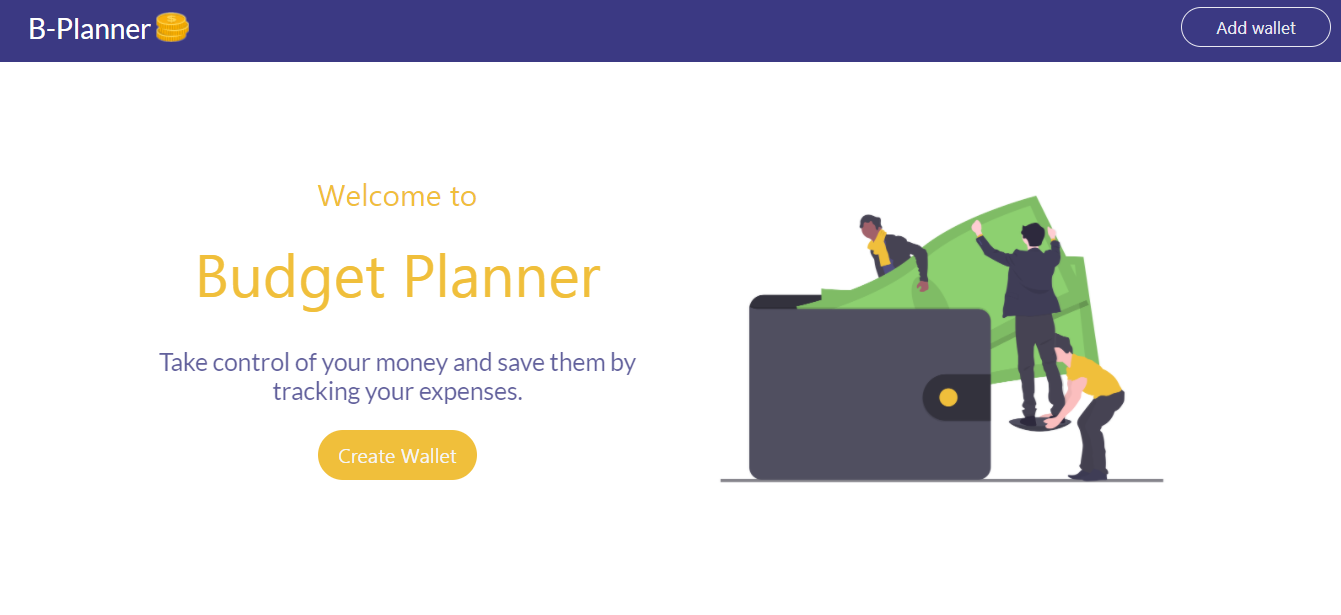
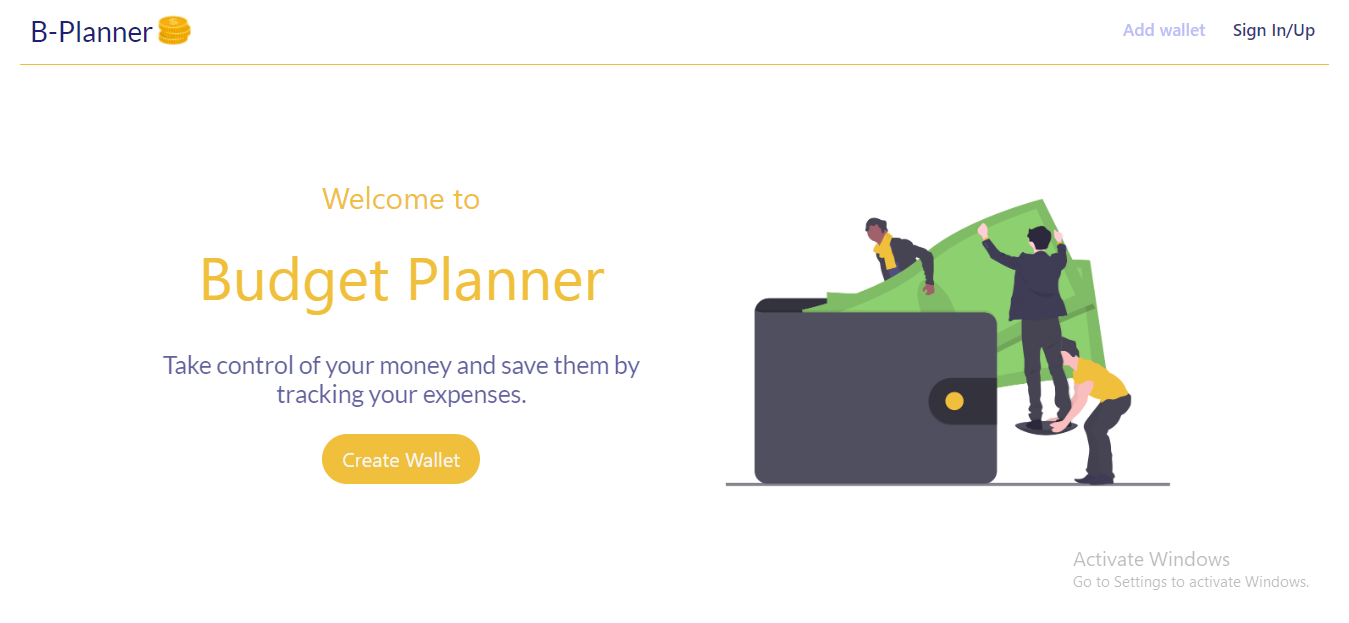
Edit : WorkCard

diff --git a/src/Pages/WorkPage/WorkPage.js b/src/Pages/WorkPage/WorkPage.js
@@ -13,10 +13,10 @@ export default function WorkPage() {
         AOS.init({duration: 1000});
       },[])
 
-    const cards =[{ img:img2, title: 'Discover North Lebanon', git: 'https://github.com/MaryamAK7/Discover-North-Lebanon.git', demo: 'https://discover-north-lebanon-maryam.netlify.app/', desc:'A web app to discover cities and activities available in North Lebanon'},
-    { img:img3, title: 'Movie App', git: 'https://github.com/MaryamAK7/movie-app.git', demo: 'https://movie-app-maryam.netlify.app/', desc:'A movie discovery tool'},
-    { img:img1, title: 'Budget Planner', git: 'https://github.com/MaryamAK7/E-wallet.git', demo: 'https://budget-planner-maryam.netlify.app/', desc:'A tool to save all your finance transactions and calculate the total'},
-    { img:img4, title: 'Todo-List', git: 'https://github.com/MaryamAK7/Todo-List.git', demo: 'https://todo-list-maryam.netlify.app/', desc:'A simple to-do list to manage users’ tasks'}]
+    const cards =[{ img:img2, title: 'Discover North Lebanon', git: 'https://github.com/MaryamAK7/Discover-North-Lebanon.git', demo: 'https://discover-north-lebanon-maryam.netlify.app/', desc:'A web app to discover cities and activities available in North Lebanon', lang: 'HTML5, React, CSS (AntDesign)', note : 'Demo only available for desktop (Team work)'},
+    { img:img3, title: 'Movie App', git: 'https://github.com/MaryamAK7/movie-app.git', demo: 'https://movie-app-maryam.netlify.app/', desc:'A movie discovery tool', lang: 'HTML5, React, CSS', note : ''},
+    { img:img1, title: 'Budget Planner', git: 'https://github.com/MaryamAK7/E-wallet.git', demo: 'https://b-planner.netlify.app/', desc:'A tool to save all your finance transactions and calculate the total', lang : 'HTML5, React, CSS (Bootstrap), Firebase Auth', note:''},
+    { img:img4, title: 'Todo-List', git: 'https://github.com/MaryamAK7/Todo-List.git', demo: 'https://todo-list-maryam.netlify.app/', desc:'A simple to-do list to manage users’ tasks', lang : 'HTML5, JavaScript, CSS', note: ''}]
     return (
         <div className='workPage' id='work'>
             <h1 className='wrk-page-header'

diff --git a/src/Components/WorkCard/WorkCard.js b/src/Components/WorkCard/WorkCard.js
@@ -41,7 +41,7 @@ export default function WorkCard({ card }) {
             <img src={github} alt='' />
           </a>
           </div>
-          <div className="app-desc">{card.desc}</div>
+          <div className="app-desc"><div>{card.desc}</div><div style={{fontSize : 'small'}}>{card.lang}</div><div style={{fontSize : 'small'}}>{card.note}</div></div>
         </div>
       </div>
     </div>

diff --git a/src/Components/Navbar/NavBar.css b/src/Components/Navbar/NavBar.css
@@ -1,7 +1,7 @@
 .portfolio-navbar{ 
     background-color: transparent ;
     height: 70px;
-    position: fixed;
+    position: sticky;
     width: 100%;
     top: 0;
     z-index: 999;
